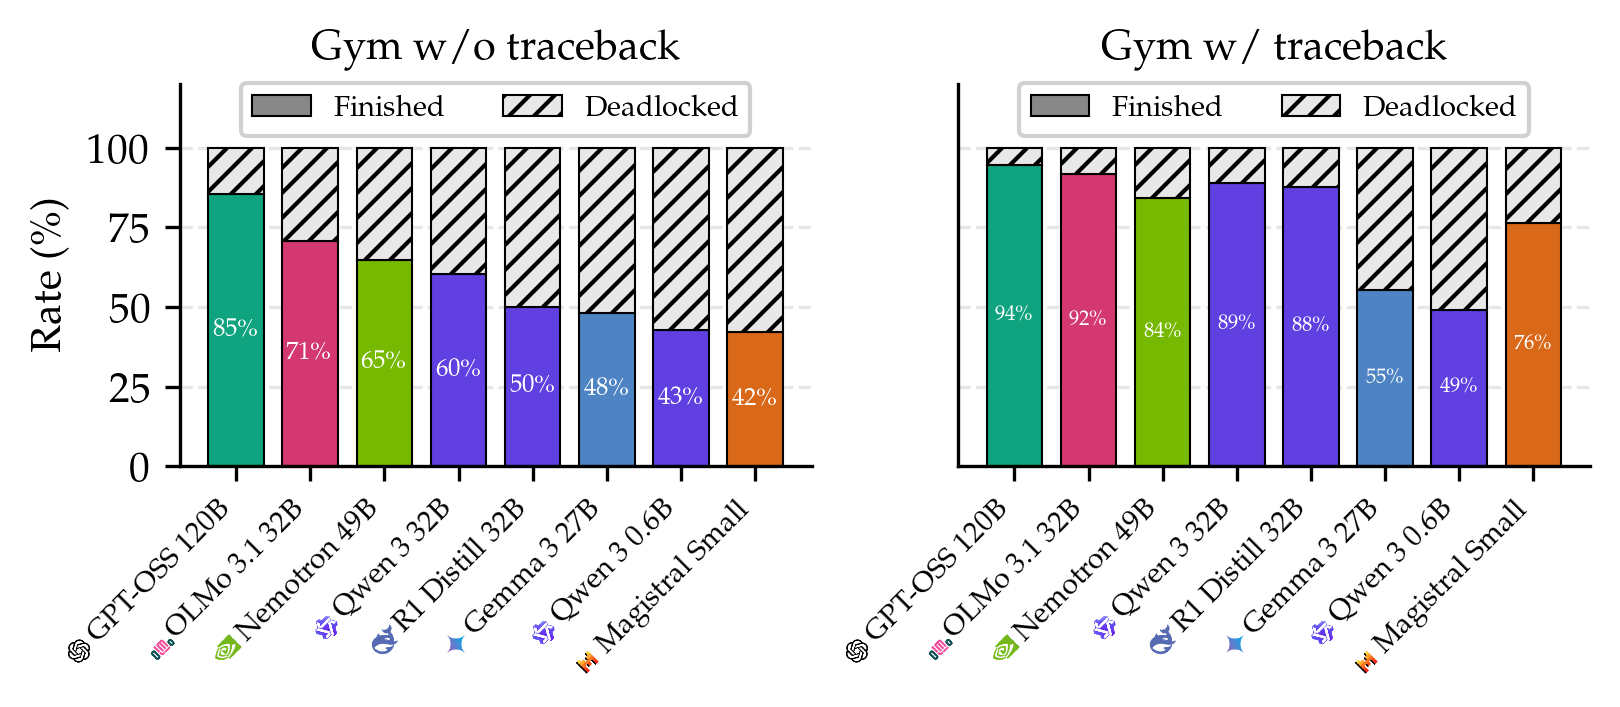
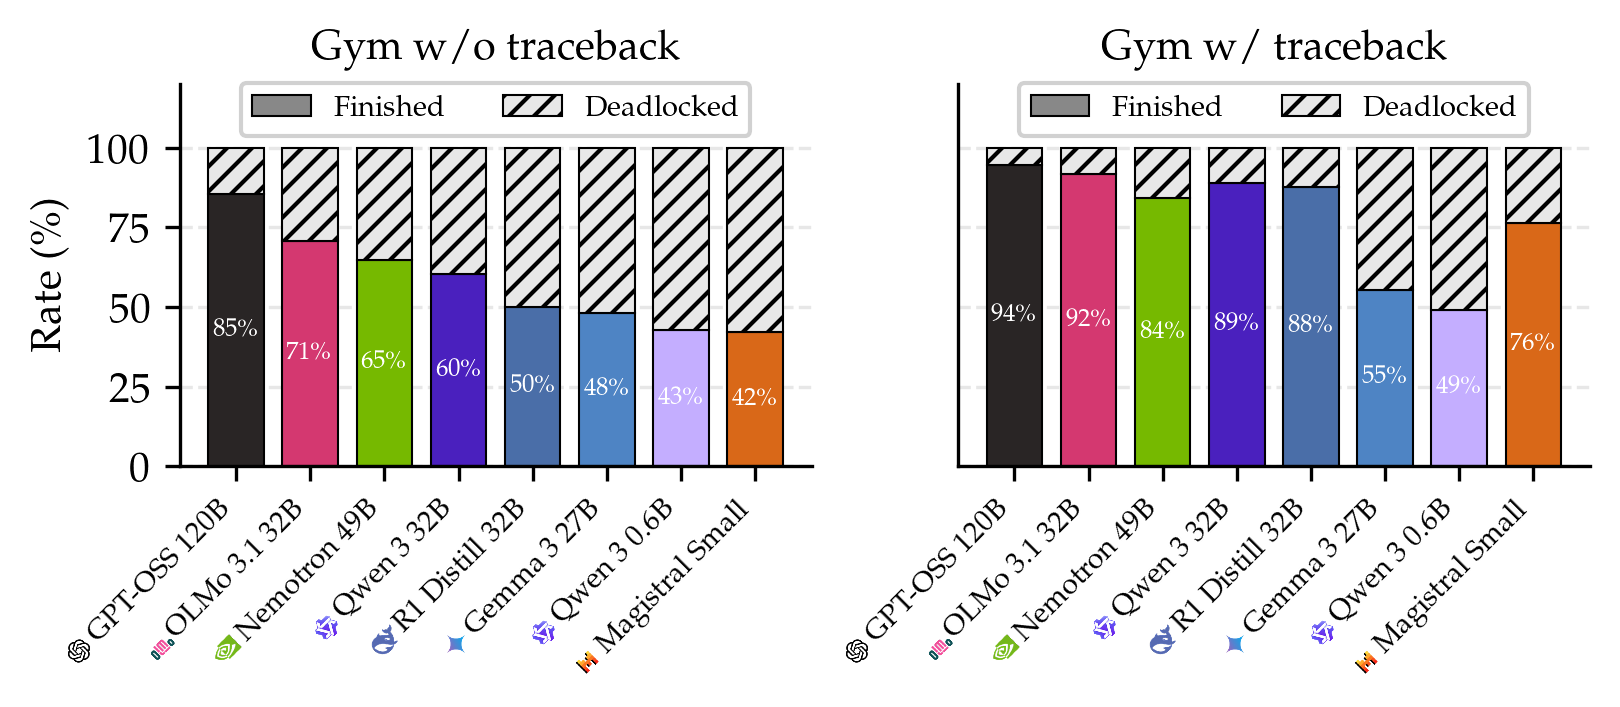
Update navigation outcome visualizations and improve plotting functionality
- Updated `plot_navigation_outcome.py` to enhance the `get_model_family_color` function by incorporating display names for better color accuracy.
- Increased font size in navigation comparison plots for improved readability.
- Updated binary files `navigation_outcome.pdf` and `navigation_outcome.png` to reflect the latest visualization changes.

diff --git a/plot_navigation_outcome.py b/plot_navigation_outcome.py
@@ -127,7 +127,7 @@ def load_navigation_stats(results_dir, variant='gym'):
         
         reached_pct, stuck_pct, solve_rate = extract_navigation_stats(stats_file)
         display_name = MODEL_DISPLAY_NAMES.get(model_name, model_name)
-        color = get_model_family_color(model_name)
+        color = get_model_family_color(model_name, display_name)
         
         model_data.append({
             'model_name': model_name,
@@ -223,7 +223,7 @@ def create_navigation_comparison():
             ax2.annotate(f'{value:.0f}\\%',
                         xy=(bar.get_x() + bar.get_width() / 2, value / 2),
                         ha='center', va='center',
-                        fontsize=5, fontweight='bold', color='white')
+                        fontsize=6, fontweight='bold', color='white')
     
     ax2.set_ylabel('Rate (\\%)')
     ax2.set_title('Gym w/ traceback', fontsize=10, fontweight='bold')
